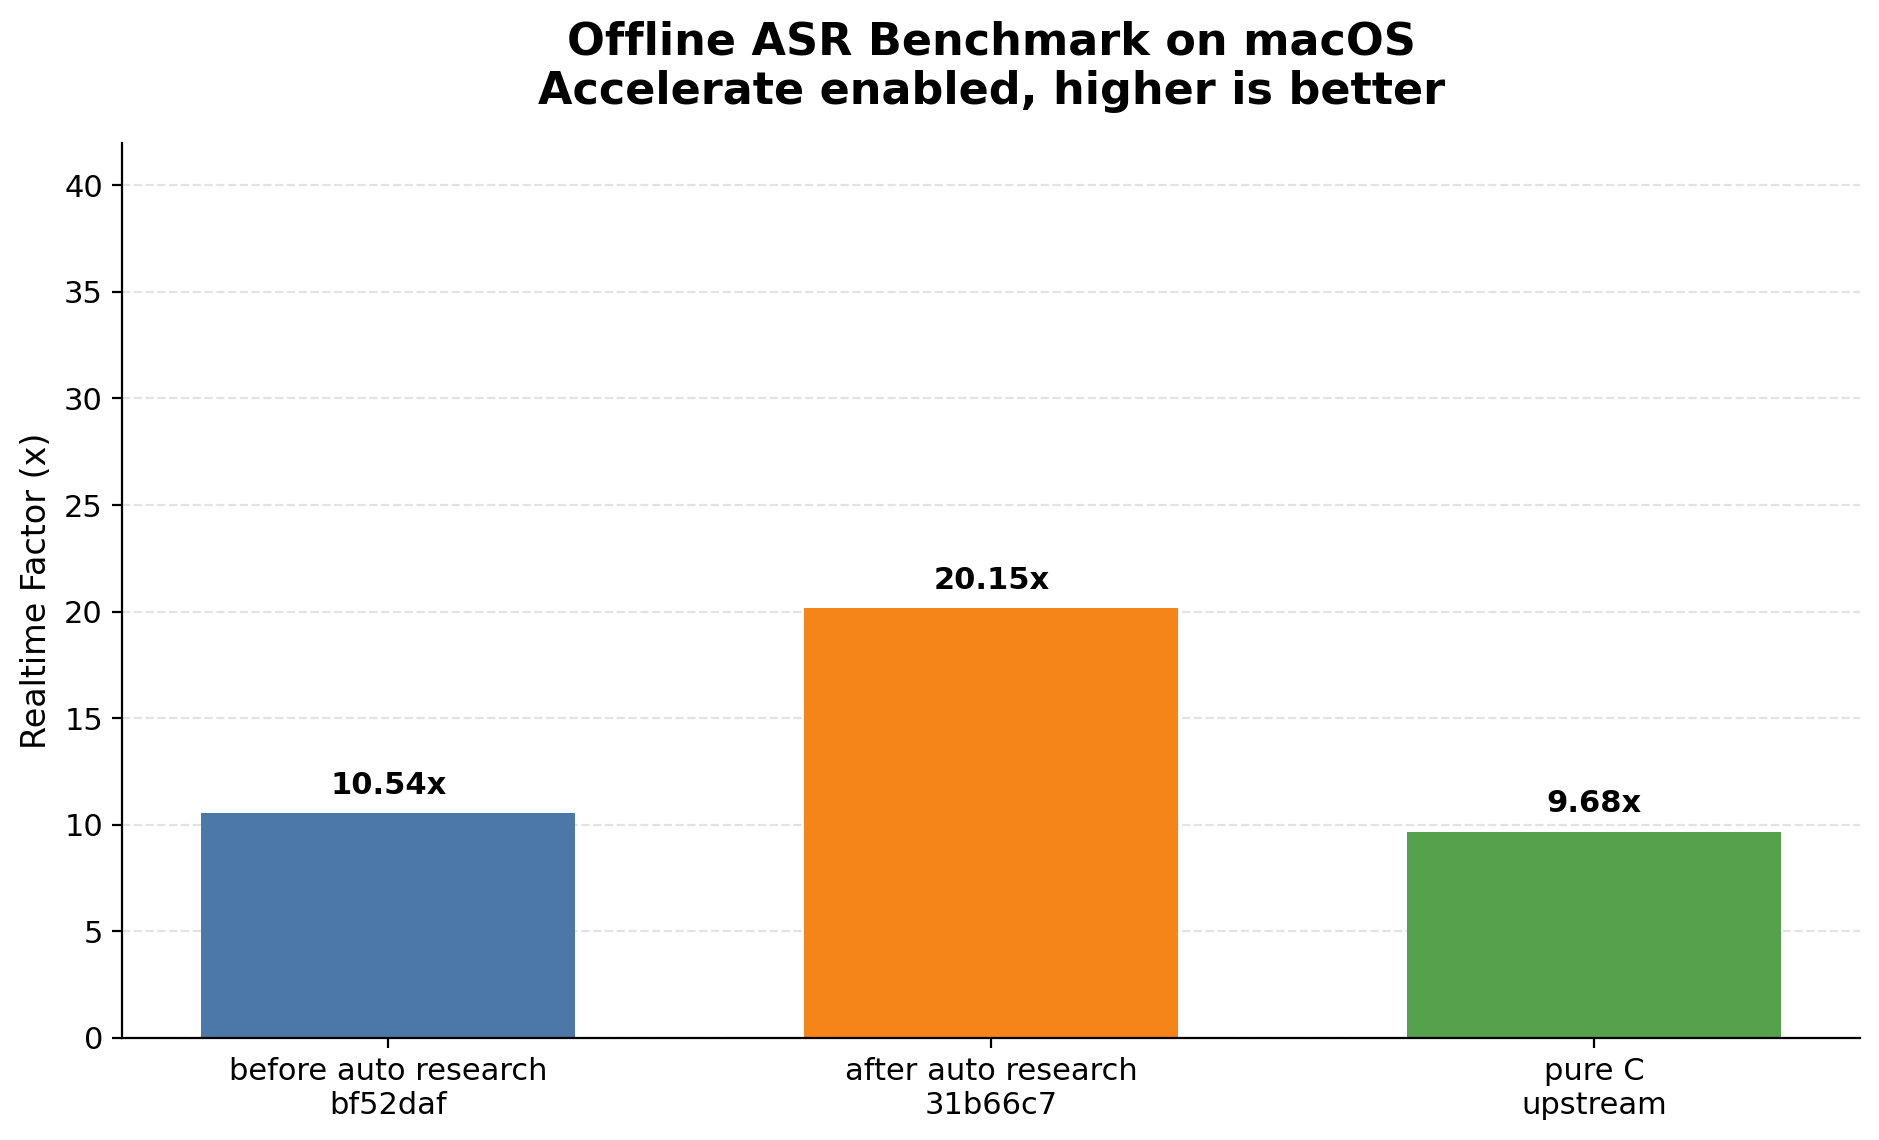
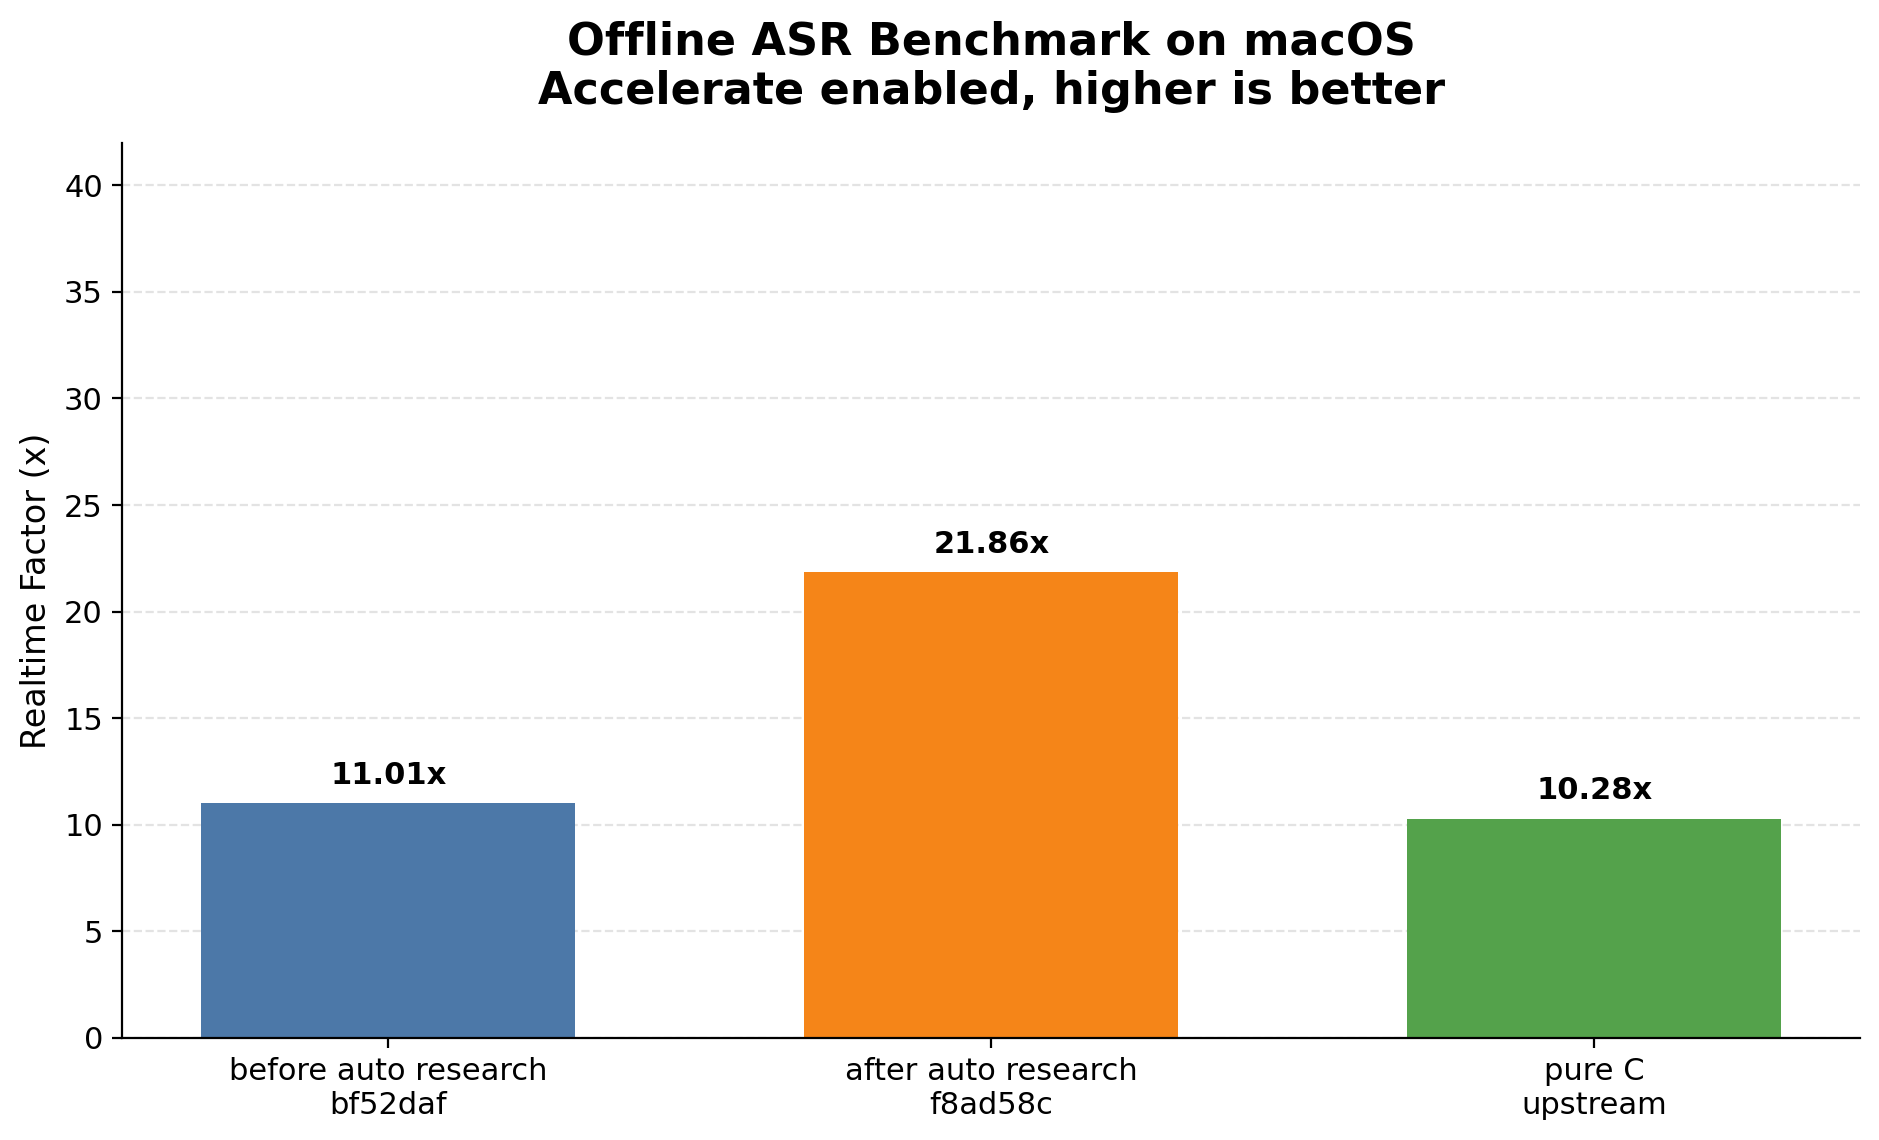
generate report

diff --git a/report.md b/report.md
@@ -4,7 +4,7 @@
 
 - Offline benchmark on the same input WAV and model across three implementations.
 - Rust baseline: `before auto research bf52daf`.
-- Rust optimized: `after auto research 31b66c7`.
+- Rust optimized: `after auto research f8ad58c`.
 - Upstream baseline: `antirez/qwen-asr` pure C implementation.
 - macOS Accelerate enabled.
 - Runs per target: `3`.
@@ -21,9 +21,9 @@
 
 | Implementation | Commit | Total ms | RTF |
 |---|---:|---:|---:|
-| before auto research | `bf52daf` | `2,672` | `10.54x` |
-| after auto research | `31b66c7` | `1,398` | `20.15x` |
-| pure C upstream | - | `2,909` | `9.68x` |
+| before auto research | `bf52daf` | `2,557` | `11.01x` |
+| after auto research | `f8ad58c` | `1,288` | `21.86x` |
+| pure C upstream | - | `2,740` | `10.28x` |
 
 ![Accelerate latency](bench/charts/benchmark-accelerate-latency.png)
 
@@ -31,6 +31,6 @@
 
 ## Findings
 
-- With Accelerate enabled, `after auto research 31b66c7` is `1.91x` faster than `before auto research bf52daf`.
-- With Accelerate enabled, `after auto research 31b66c7` is `2.08x` faster than the upstream pure C implementation.
+- With Accelerate enabled, `after auto research f8ad58c` is `1.99x` faster than `before auto research bf52daf`.
+- With Accelerate enabled, `after auto research f8ad58c` is `2.13x` faster than the upstream pure C implementation.
 